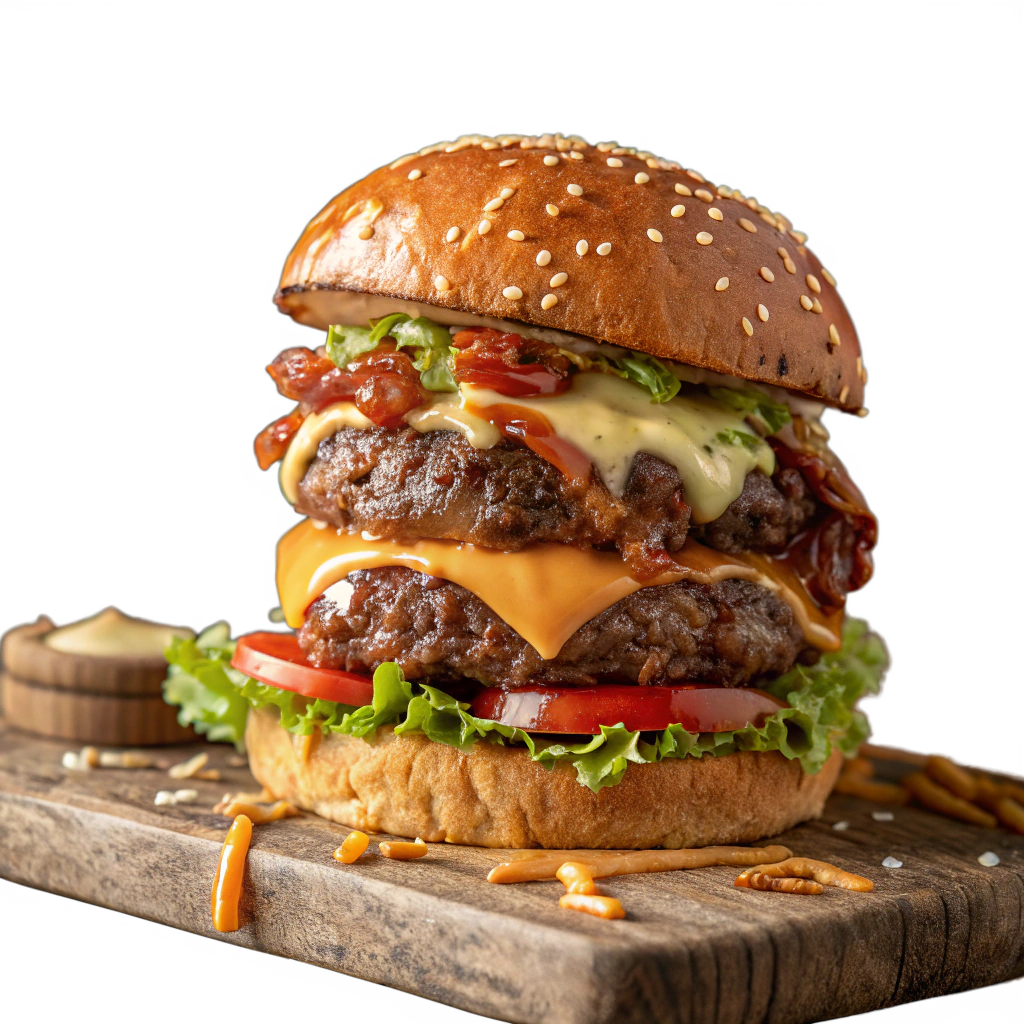
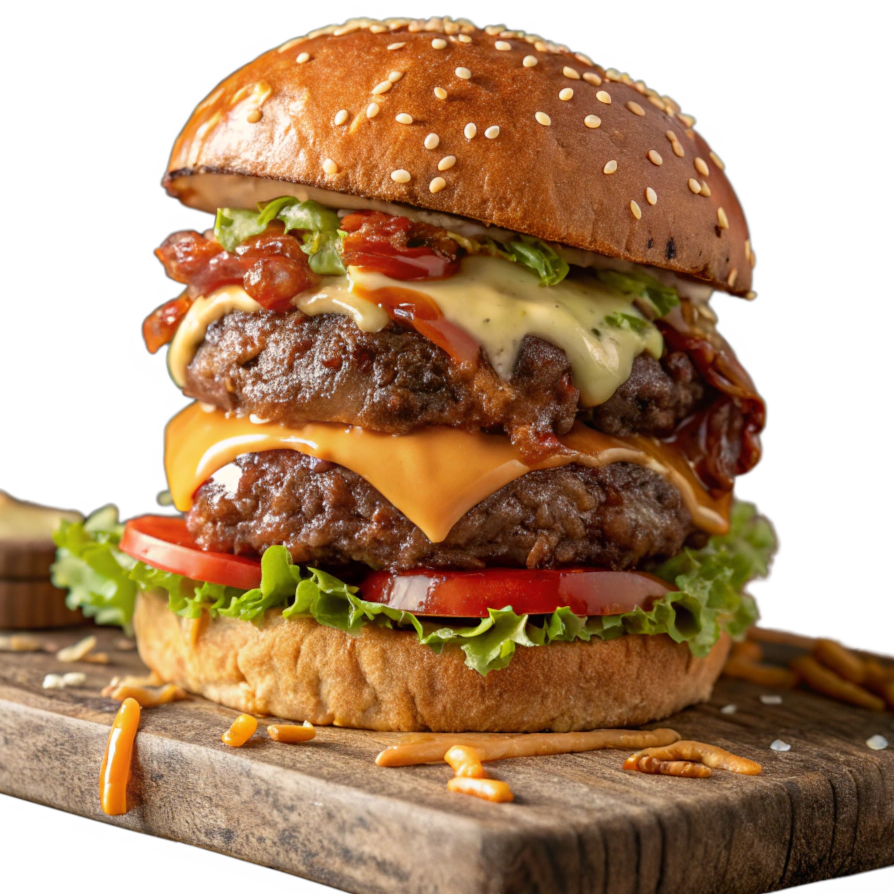
update hero, pendiente corrección en imagen para tables

diff --git a/components/page-sections/hero.tsx b/components/page-sections/hero.tsx
@@ -5,18 +5,21 @@ import { Button } from "@/components/ui/button"
 import { Star } from "lucide-react"
 import { useRestaurant } from "@/contexts/restaurant-context"
 import sendWhatsAppMessage from "@/utils/sendWhatsAppMessage"
+import { WhatsAppIcon } from '@/app/icons';
 
 export function Hero() {
   const { data } = useRestaurant()
 
-
   return (
-    <section id="inicio" className="relative lg:min-h-screen  bg-black flex items-center overflow-hidden">
+    <section
+      id="inicio"
+      className="relative bg-black flex items-center overflow-hidden pt-20 xl:pt-0"
+    >
       <div className="absolute inset-0 opacity-10">
         <div className="absolute inset-0 bg-gradient-to-br from-red-600/20 to-yellow-400/20" />
       </div>
 
-      <div className="container mx-auto px-4 py-20- sm:py-20">
+      <div className="container mx-auto px-4 py-10 relative z-10">
         <div className="grid lg:grid-cols-2 gap-8 lg:gap-12 items-center">
           <div className="space-y-6 sm:space-y-8">
             <div className="space-y-4">
@@ -38,46 +41,21 @@ export function Hero() {
                   <p className="text-lg sm:text-xl text-gray-300 max-w-lg mt-4">{data.restaurant.description}</p>
                 </div>
 
-                {/* Imagen visible solo en tablet (md) y oculta en móvil y desktop */}
-                <div className="hidden md:block lg:hidden mt-6 md:mt-0 flex-shrink-0">
-                  <div className="relative w-48 h-48">
-                    <Image
-                      src={data.restaurant.heroImage}
-                      alt="Hamburguesa Clásica Mar Burger"
-                      width={600}
-                      height={600}
-                      className="w-full h-full object-contain"
-                      priority
-                    />
-                    <div className="absolute -top-4 -right-4 w-16 h-16 bg-red-600/20 rounded-full blur-2xl animate-pulse" />
-                  </div>
-                </div>
               </div>
             </div>
 
-            <div className="flex flex-col sm:flex-row gap-4">
-              <Button
-                onClick={() =>
-                  window.open(
-                    `https://maps.google.com/?q=${encodeURIComponent(data.restaurant.address)}`,
-                    "_blank",
-                  )
-                }
-                variant="outline"
-                className="border-black text-black hover:bg-yellow-400 font-bold"
-              >
-                Whatsap
-                CÓMO LLEGAR
-              </Button>
+            <div className="flex flex-col sm:flex-row gap-4">            
               
-              <Button
-                size="lg"
-                onClick={() => sendWhatsAppMessage(data.restaurant.phone)}
-                variant="outline"
-                className="border-2 border-white text-black hover:bg-white hover:text-black font-bold text-base sm:text-lg px-6 sm:px-8 py-3 sm:py-4 rounded-full transition-all duration-300 transform hover:scale-105"
-              >
-                PEDIR AHORA
-              </Button>
+                <Button
+                  size="lg"
+                  onClick={() => sendWhatsAppMessage(data.restaurant.phone)}
+                  className="bg-gradient-to-r from-red-600 to-red-700 hover:from-red-700 hover:to-red-800 text-white font-bold text-base sm:text-lg px-6 sm:px-8 py-3 sm:py-4 shadow-lg hover:shadow-xl transition-all duration-300 transform hover:scale-105 gap-3"
+                >
+                  <span className="flex items-center">
+                    <WhatsAppIcon className="w-12 h-12 text-white" />
+                  </span>
+                  PEDIR AHORA
+                </Button>
             </div>
 
             {data.stats.enabled && (
@@ -104,8 +82,8 @@ export function Hero() {
               <Image
                 src={data.restaurant.heroImage}
                 alt="Hamburguesa Clásica Mar Burger"
-                width={600}
-                height={600}
+                width={500}
+                height={500}
                 className="w-full h-auto object-contain"
                 priority
               />

diff --git a/components/page-sections/menu.tsx b/components/page-sections/menu.tsx
@@ -116,14 +116,14 @@ export function Menu() {
   }
 
   return (
-    <section id="menu" className="py-15 bg-gray-900">
+    <section id="menu" className="py-10 bg-gray-900">
       <div className="container mx-auto px-4">
-        <div className="flex flex-col items-center mb-12">
+        <div className="flex flex-col items-center mb-12 text-center">
           <h2 className="text-4xl lg:text-5xl font-bold mb-4 animate-pulse-">
             <span className="text-yellow-400">NUESTROS</span>
             <span className="text-white"> PLATOS</span>
           </h2>
-          <p className="text-gray-300 text-lg max-w-4xl mx-auto text-center">
+          <p className="text-gray-300 text-lg max-w-4xl mx-auto">
             Descubre nuestras deliciosas opciones preparadas con ingredientes frescos y de la mejor calidad
           </p>
         </div>
